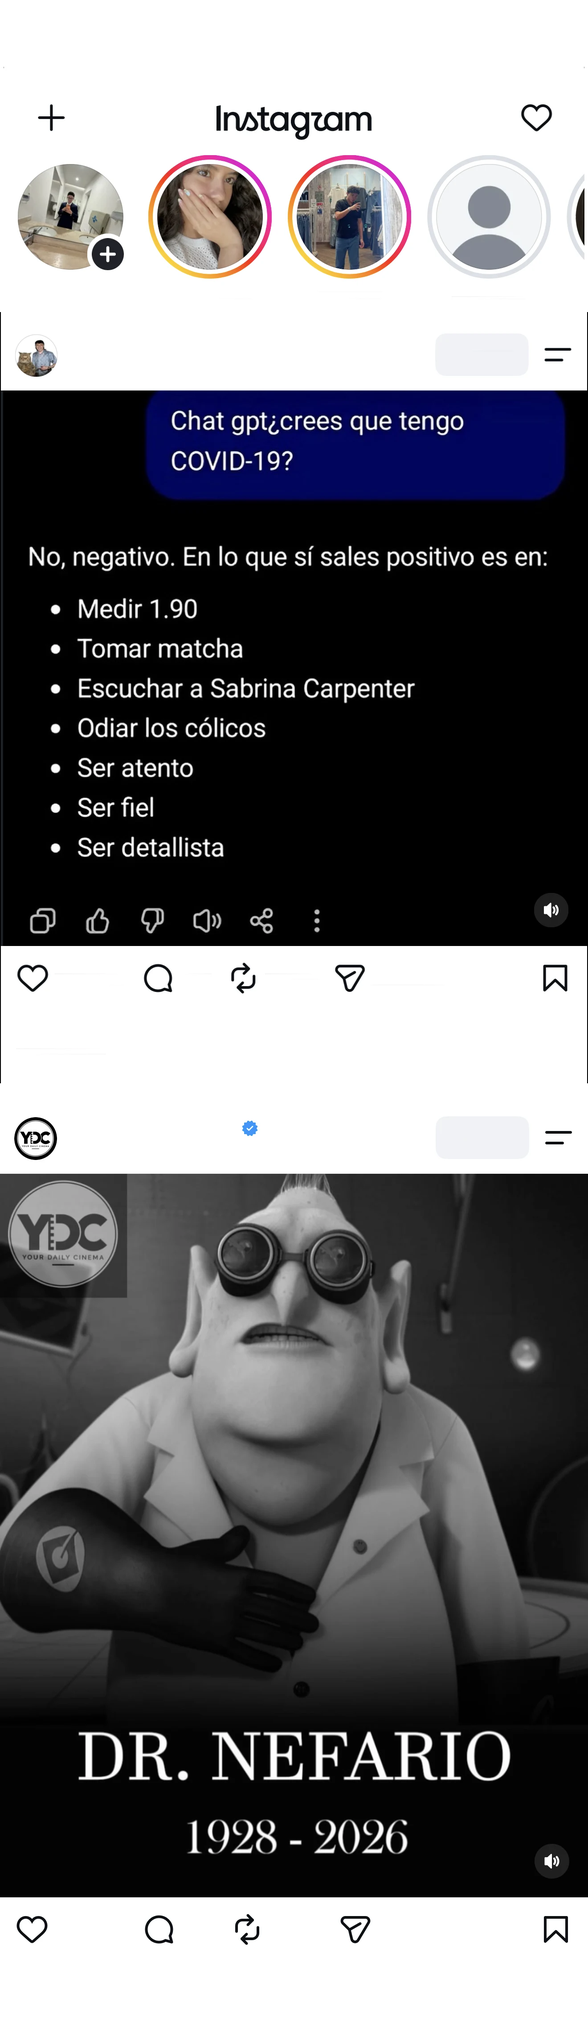
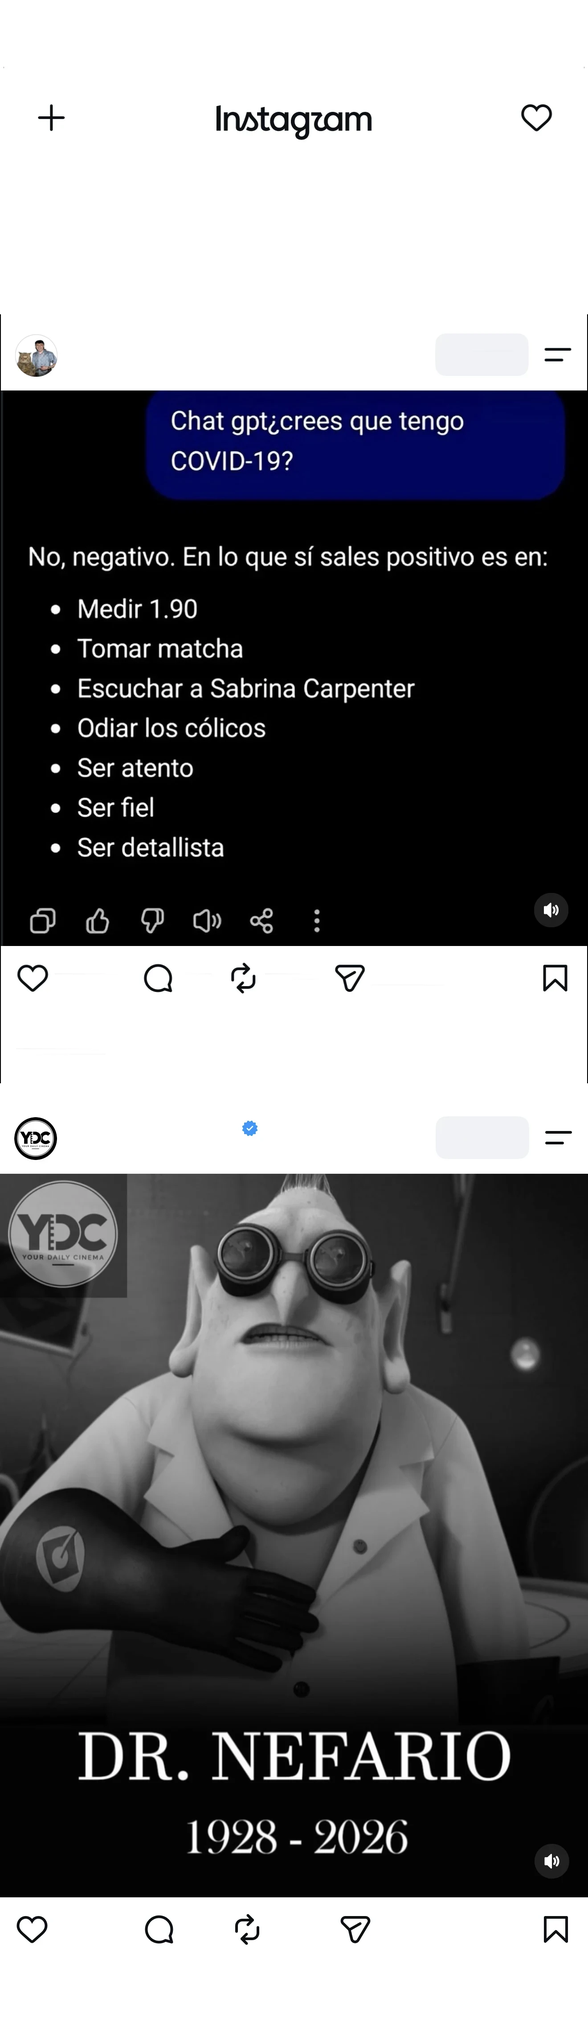
Instagram: editable stories (add/remove, photo, name, seen) instead of fixed friends
Claude-Session: https://claude.ai/code/session_019XkTPpmcsHWjk58MruyJfw

diff --git a/instagram/index.html b/instagram/index.html
@@ -1,7 +1,7 @@
 <!doctype html>
 <html lang="en"><head><meta charset="utf-8">
 <meta http-equiv="Cache-Control" content="no-cache, no-store, must-revalidate"><meta http-equiv="Pragma" content="no-cache"><meta http-equiv="Expires" content="0">
-<script>(function(){var V="20261106g";if(location.search.indexOf("v="+V)<0){location.replace(location.pathname+"?v="+V+location.hash)}})();</script>
+<script>(function(){var V="20261106h";if(location.search.indexOf("v="+V)<0){location.replace(location.pathname+"?v="+V+location.hash)}})();</script>
 
 <meta name="viewport" content="width=device-width,initial-scale=1,maximum-scale=1,user-scalable=no,viewport-fit=cover">
 <meta name="apple-mobile-web-app-capable" content="yes"><meta name="mobile-web-app-capable" content="yes">
@@ -18,6 +18,15 @@ html,body{margin:0;height:100%;background:#fff;overflow:hidden;font-family:'Inst
 #pgS{display:none;z-index:5}#pgS.on{display:block}#pgK{display:none;z-index:6}#pgK.on{display:block}
 .gx{position:absolute;white-space:nowrap;line-height:1;outline:0;-webkit-user-select:none;user-select:none;-webkit-touch-callout:none;touch-action:manipulation}
 .gx[contenteditable=true]{-webkit-user-select:text;user-select:text;caret-color:#0095f6;box-shadow:0 0 0 calc(2*var(--u)) #0095f655;border-radius:calc(3*var(--u))}
+.stories{position:absolute;left:0;right:0;display:flex;overflow-x:auto;overflow-y:hidden;scrollbar-width:none;padding:0 calc(38*var(--u));gap:calc(0*var(--u))}.stories::-webkit-scrollbar{display:none}
+.sti{flex:none;width:calc(219.09*var(--u));display:flex;flex-direction:column;align-items:center;position:relative}
+.sti .rg{position:relative;width:calc(191.88*var(--u));height:calc(191.88*var(--u));border-radius:50%;padding:calc(8.37*var(--u));background:linear-gradient(45deg,#fcaf45,#f56040,#e1306c,#c13584,#833ab4);margin-top:calc(6.98*var(--u))}
+.sti.seen .rg{background:#dbdbdb}.sti.me .rg{background:none}
+.sti .rg i{display:block;width:100%;height:100%;border-radius:50%;background:#fff;padding:calc(5.58*var(--u))}.sti.me .rg i{padding:0}
+.sti .rg img{display:block;width:100%;height:100%;border-radius:50%;object-fit:cover;max-width:none}
+.sti .pl{position:absolute;right:calc(13.95*var(--u));bottom:calc(32.10*var(--u));width:calc(43.26*var(--u));height:calc(43.26*var(--u));border-radius:50%;background:#1b1f23;border:calc(4*var(--u)) solid #fff;display:grid;place-items:center}.sti .pl svg{width:46%;height:46%}
+.sti .nm{margin-top:calc(8.37*var(--u));font-size:calc(25.5*var(--u));font-weight:500;color:#0c0f14;max-width:calc(219.09*var(--u));white-space:nowrap;overflow:hidden;text-overflow:ellipsis;text-align:center;line-height:1.15;position:static}
+.sti.seen .nm{color:#686f78}
 .nh{position:absolute;top:0;height:100%;pointer-events:auto}.pgx0{}
 #pgH{display:none;z-index:2}#pgH.on{display:block}#pgH .wr{padding-bottom:calc(190*var(--u));margin-top:calc(-131*var(--u))}
 .gline{position:absolute;white-space:nowrap;line-height:1}.gline .gx{position:static;display:inline;font-size:inherit}
@@ -46,6 +55,8 @@ html,body{margin:0;height:100%;background:#fff;overflow:hidden;font-family:'Inst
 .sh h5{margin:18px 0 8px;font-size:13px;color:#686f78;font-weight:600;text-transform:uppercase;letter-spacing:.04em}
 .sh .ph3{display:grid;grid-template-columns:repeat(3,1fr);gap:10px}.sh .ph3 button{border:0;background:#f1f2f4;border-radius:12px;padding:8px;font:inherit;font-size:13px;font-weight:600;color:#0c0f14}.sh .ph3 img{display:block;width:100%;aspect-ratio:1;object-fit:cover;border-radius:8px;margin-bottom:6px}
 .sh .pl{display:grid;grid-template-columns:repeat(4,1fr);gap:8px}.sh .pi{position:relative}.sh .pi img{display:block;width:100%;aspect-ratio:3/4;object-fit:cover;border-radius:8px}.sh .pi b{position:absolute;top:4px;right:4px;width:22px;height:22px;border-radius:50%;background:#000a;color:#fff;display:grid;place-items:center;font-size:15px;line-height:1}.sh .pa{aspect-ratio:3/4;border:2px dashed #c7c7c7;border-radius:8px;background:#fafafa;font-size:30px;color:#8e8e8e}
+.sh .sr{display:flex;align-items:center;gap:10px;margin-top:10px}.sh .sr img{width:46px;height:46px;border-radius:50%;object-fit:cover;flex:none}.sh .sr input[type=text]{flex:1;min-width:0}.sh .sr .sk{display:flex;align-items:center;gap:4px;margin:0;font-size:12px}.sh .sr b{width:28px;height:28px;border-radius:50%;background:#f1f2f4;display:grid;place-items:center;font-size:18px;flex:none}.sh .sadd{margin-top:12px;width:100%;height:44px;border:2px dashed #c7c7c7;border-radius:10px;background:#fafafa;font:inherit;font-weight:700;color:#0c0f14}
+
 .sh label{display:block;font-size:12px;color:#686f78;margin:10px 0 4px}.sh input[type=text]{width:100%;height:42px;border:1px solid #dbdbdb;border-radius:10px;padding:0 12px;font:inherit;font-size:15px;background:#fafafa}
 .sh .rs{margin-top:20px;width:100%;height:44px;border:0;border-radius:10px;background:#f1f2f4;color:#ed4956;font:inherit;font-weight:700}
 .hint{position:fixed;left:50%;bottom:calc(12px + env(safe-area-inset-bottom,0px));transform:translateX(-50%) translateY(20px);background:#262626ee;color:#fff;font-size:13px;padding:9px 14px;border-radius:20px;opacity:0;transition:.25s;pointer-events:none;z-index:20;white-space:nowrap}.hint.on{opacity:1;transform:translateX(-50%)}
@@ -68,7 +79,7 @@ html,body{margin:0;height:100%;background:#fff;overflow:hidden;font-family:'Inst
   <div class="thit" style="top:calc(955.89*var(--u))"><i data-t="0"></i><i data-t="1"></i><i data-t="2"></i><i data-t="3"></i></div>
   <button class="hs" id="menu" aria-label="Menu" style="left:calc(781.45*var(--u));top:calc(125.59*var(--u));width:calc(125.59*var(--u));height:calc(111.64*var(--u))"></button>
  </div></div>
- <div class="pg" id="pgH"><div class="wr"><img class="bg" src="img/home.webp" alt=""><span class="gx" style="top:calc(448.41*var(--u));font-size:calc(25.32*var(--u));font-weight:400;color:#0c0f14;left:calc(49.54*var(--u))" data-k="h2" spellcheck="false"></span><span class="gx" style="top:calc(448.82*var(--u));font-size:calc(24.75*var(--u));font-weight:500;color:#0c0f14;left:calc(263.74*var(--u))" data-k="h3" spellcheck="false"></span><span class="gx" style="top:calc(447.84*var(--u));font-size:calc(26.23*var(--u));font-weight:500;color:#0c0f14;left:calc(500.27*var(--u))" data-k="h1" spellcheck="false"></span><span class="gx" style="top:calc(447.84*var(--u));font-size:calc(26.23*var(--u));font-weight:400;color:#686f78;left:calc(710.29*var(--u))" data-k="h4" spellcheck="false"></span><span class="gx" style="top:calc(525.36*var(--u));font-size:calc(28.38*var(--u));font-weight:600;color:#25282e;left:calc(111.64*var(--u))" data-k="h5" spellcheck="false"></span><span class="gx" style="top:calc(539.68*var(--u));font-size:calc(29.09*var(--u));font-weight:600;color:#0c0f14;left:calc(710.98*var(--u))" data-k="h6" spellcheck="false"></span><span class="gx" style="top:calc(562.81*var(--u));font-size:calc(25.32*var(--u));font-weight:500;color:#0c0f14;left:calc(110.94*var(--u))" data-k="h7" spellcheck="false"></span><span class="gx" style="top:calc(1515.42*var(--u));font-size:calc(30.24*var(--u));font-weight:600;color:#0c0f14;left:calc(585.39*var(--u))" data-k="h18" spellcheck="false"></span><span class="gx" style="top:calc(1515.28*var(--u));font-size:calc(32.00*var(--u));font-weight:500;color:#0c0f14;left:calc(417.94*var(--u))" data-k="h19" spellcheck="false"></span><span class="gx" style="top:calc(1515.06*var(--u));font-size:calc(30.81*var(--u));font-weight:500;color:#0c0f14;left:calc(88.61*var(--u))" data-k="h20" spellcheck="false"></span><span class="gx" style="top:calc(1514.66*var(--u));font-size:calc(32.68*var(--u));font-weight:600;color:#0c0f14;left:calc(284.67*var(--u))" data-k="h21" spellcheck="false"></span><span class="gx" style="top:calc(1629.40*var(--u));font-size:calc(26.11*var(--u));font-weight:400;color:#686f78;left:calc(27.91*var(--u))" data-k="h23" spellcheck="false"></span><span class="gx" style="top:calc(1748.94*var(--u));font-size:calc(30.94*var(--u));font-weight:600;color:#25282e;left:calc(109.54*var(--u))" data-k="h24" spellcheck="false"></span><span class="gx" style="top:calc(1765.24*var(--u));font-size:calc(29.09*var(--u));font-weight:600;color:#0c0f14;left:calc(711.68*var(--u))" data-k="h25" spellcheck="false"></span><span class="gx" style="top:calc(1788.08*var(--u));font-size:calc(25.81*var(--u));font-weight:400;color:#0c0f14;left:calc(110.24*var(--u))" data-k="h26" spellcheck="false"></span><span class="gx" style="top:calc(3004.35*var(--u));font-size:calc(31.19*var(--u));font-weight:500;color:#0c0f14;left:calc(424.92*var(--u))" data-k="h31" spellcheck="false"></span><span class="gx" style="top:calc(3004.02*var(--u));font-size:calc(30.78*var(--u));font-weight:500;color:#0c0f14;left:calc(594.46*var(--u))" data-k="h32" spellcheck="false"></span><span class="gx" style="top:calc(3003.80*var(--u));font-size:calc(31.92*var(--u));font-weight:500;color:#0c0f14;left:calc(286.07*var(--u))" data-k="h33" spellcheck="false"></span><span class="gx" style="top:calc(3003.91*var(--u));font-size:calc(31.01*var(--u));font-weight:500;color:#0c0f14;left:calc(87.22*var(--u))" data-k="h34" spellcheck="false"></span><div class="gline" style="top:calc(1582.11*var(--u));font-size:calc(29.39*var(--u));left:calc(27.91*var(--u))"><span class="gx" data-k="c1_u" style="font-weight:600;color:#0c0f13" spellcheck="false"></span> <span class="gx" data-k="c1_t" style="font-weight:400;color:#0c0f13" spellcheck="false"></span> <span class="gx" data-k="c1_m" style="font-weight:400;color:#686f78" spellcheck="false"></span></div><div class="gline" style="top:calc(3070.51*var(--u));font-size:calc(30.29*var(--u));left:calc(25.82*var(--u))"><span class="gx" data-k="c2_u" style="font-weight:600;color:#0c0f13" spellcheck="false"></span> <span class="gx" data-k="c2_t" style="font-weight:400;color:#0c0f13" spellcheck="false"></span> <span class="gx" data-k="c2_m" style="font-weight:400;color:#686f78" spellcheck="false"></span></div><div class="gline" style="top:calc(3117.99*var(--u));font-size:calc(27.25*var(--u));left:calc(27.21*var(--u))"><span class="gx" data-k="tm_a" style="font-weight:400;color:#686f78" spellcheck="false"></span> <span class="gx" data-k="tm_b" style="font-weight:400;color:#686f78" spellcheck="false"></span> <span class="gx" data-k="tm_c" style="font-weight:600;color:#0c0f14" spellcheck="false"></span></div><button class="hs" id="hStory" aria-label="Edit" style="left:calc(27.91*var(--u));top:calc(256.07*var(--u));width:calc(166.06*var(--u));height:calc(166.06*var(--u))"></button></div></div>
+ <div class="pg" id="pgH"><div class="wr"><img class="bg" src="img/home.webp" alt=""><span class="gx" style="top:calc(525.36*var(--u));font-size:calc(28.38*var(--u));font-weight:600;color:#25282e;left:calc(111.64*var(--u))" data-k="h5" spellcheck="false"></span><span class="gx" style="top:calc(539.68*var(--u));font-size:calc(29.09*var(--u));font-weight:600;color:#0c0f14;left:calc(710.98*var(--u))" data-k="h6" spellcheck="false"></span><span class="gx" style="top:calc(562.81*var(--u));font-size:calc(25.32*var(--u));font-weight:500;color:#0c0f14;left:calc(110.94*var(--u))" data-k="h7" spellcheck="false"></span><span class="gx" style="top:calc(1515.42*var(--u));font-size:calc(30.24*var(--u));font-weight:600;color:#0c0f14;left:calc(585.39*var(--u))" data-k="h18" spellcheck="false"></span><span class="gx" style="top:calc(1515.28*var(--u));font-size:calc(32.00*var(--u));font-weight:500;color:#0c0f14;left:calc(417.94*var(--u))" data-k="h19" spellcheck="false"></span><span class="gx" style="top:calc(1515.06*var(--u));font-size:calc(30.81*var(--u));font-weight:500;color:#0c0f14;left:calc(88.61*var(--u))" data-k="h20" spellcheck="false"></span><span class="gx" style="top:calc(1514.66*var(--u));font-size:calc(32.68*var(--u));font-weight:600;color:#0c0f14;left:calc(284.67*var(--u))" data-k="h21" spellcheck="false"></span><span class="gx" style="top:calc(1629.40*var(--u));font-size:calc(26.11*var(--u));font-weight:400;color:#686f78;left:calc(27.91*var(--u))" data-k="h23" spellcheck="false"></span><span class="gx" style="top:calc(1748.94*var(--u));font-size:calc(30.94*var(--u));font-weight:600;color:#25282e;left:calc(109.54*var(--u))" data-k="h24" spellcheck="false"></span><span class="gx" style="top:calc(1765.24*var(--u));font-size:calc(29.09*var(--u));font-weight:600;color:#0c0f14;left:calc(711.68*var(--u))" data-k="h25" spellcheck="false"></span><span class="gx" style="top:calc(1788.08*var(--u));font-size:calc(25.81*var(--u));font-weight:400;color:#0c0f14;left:calc(110.24*var(--u))" data-k="h26" spellcheck="false"></span><span class="gx" style="top:calc(3004.35*var(--u));font-size:calc(31.19*var(--u));font-weight:500;color:#0c0f14;left:calc(424.92*var(--u))" data-k="h31" spellcheck="false"></span><span class="gx" style="top:calc(3004.02*var(--u));font-size:calc(30.78*var(--u));font-weight:500;color:#0c0f14;left:calc(594.46*var(--u))" data-k="h32" spellcheck="false"></span><span class="gx" style="top:calc(3003.80*var(--u));font-size:calc(31.92*var(--u));font-weight:500;color:#0c0f14;left:calc(286.07*var(--u))" data-k="h33" spellcheck="false"></span><span class="gx" style="top:calc(3003.91*var(--u));font-size:calc(31.01*var(--u));font-weight:500;color:#0c0f14;left:calc(87.22*var(--u))" data-k="h34" spellcheck="false"></span><div class="gline" style="top:calc(1582.11*var(--u));font-size:calc(29.39*var(--u));left:calc(27.91*var(--u))"><span class="gx" data-k="c1_u" style="font-weight:600;color:#0c0f13" spellcheck="false"></span> <span class="gx" data-k="c1_t" style="font-weight:400;color:#0c0f13" spellcheck="false"></span> <span class="gx" data-k="c1_m" style="font-weight:400;color:#686f78" spellcheck="false"></span></div><div class="gline" style="top:calc(3070.51*var(--u));font-size:calc(30.29*var(--u));left:calc(25.82*var(--u))"><span class="gx" data-k="c2_u" style="font-weight:600;color:#0c0f13" spellcheck="false"></span> <span class="gx" data-k="c2_t" style="font-weight:400;color:#0c0f13" spellcheck="false"></span> <span class="gx" data-k="c2_m" style="font-weight:400;color:#686f78" spellcheck="false"></span></div><div class="gline" style="top:calc(3117.99*var(--u));font-size:calc(27.25*var(--u));left:calc(27.21*var(--u))"><span class="gx" data-k="tm_a" style="font-weight:400;color:#686f78" spellcheck="false"></span> <span class="gx" data-k="tm_b" style="font-weight:400;color:#686f78" spellcheck="false"></span> <span class="gx" data-k="tm_c" style="font-weight:600;color:#0c0f14" spellcheck="false"></span></div><div class="stories" id="stories" style="top:calc(240.72*var(--u));height:calc(251.18*var(--u))"></div><button class="hs" id="hStory" style="display:none" aria-label="Edit" style="left:calc(27.91*var(--u));top:calc(256.07*var(--u));width:calc(166.06*var(--u));height:calc(166.06*var(--u))"></button></div></div>
  <div class="pg" id="pgK"><div class="wr"><img class="bg" src="img/skel.webp" alt=""></div></div>
  <div class="pg" id="pgS"><div class="wr"><img class="bg" src="img/settings.webp" alt="">
   
@@ -80,7 +91,7 @@ html,body{margin:0;height:100%;background:#fff;overflow:hidden;font-family:'Inst
 <input type="file" id="fi" accept="image/*" hidden>
 <div class="hint" id="hint"></div>
 <script>
-var D={"p0": "carlos.lunaa", "p1": "Carlos Luna", "p2": "308", "p3": "305", "p4": "followers", "p5": "post", "p6": "following", "p7": "Hello", "p8": "Add banners", "p9": "Edit", "p10": "Share profile", "p11": "New", "p12": "hello", "p13": "1", "s0": "Settings and activity", "s1": "Search", "s2": "Your account", "s3": "Meta Account", "s4": "Password, security, personal details,", "s5": "multi-profile experiences, ad preferences", "s6": "How you use Instagram", "s7": "Saved", "s8": "Archive", "s9": "Your activity", "s10": "Notifications", "s11": "Time management", "s12": "Instagram for iPad", "s13": "Subscriptions", "s14": "Instagram Plus", "s15": "No subscription", "s16": "Meta One", "s17": "No subscription", "s18": "Who can see your content", "s19": "Account privacy", "s20": "Private", "s21": "Close friends", "s22": "128", "s23": "Cross-posting", "bub": "I’m obsessed…", "e_r1": "Share a moment with", "e_r2": "the world", "e_rb": "Create your first reel", "e_p1": "No reposts", "e_p2": "No reposts to show.", "e_t1": "Photos and videos", "e_t2": "of you", "e_t3": "When people tag you in photos and videos,", "e_t4": "they will appear here.", "h2": "Your story", "h3": "andidi.food", "h1": "fbhz_bz", "h4": "4ng3.452", "h5": "memesdmoda", "h6": "Follow", "h7": "Suggested for you", "h18": "29.7K", "h19": "7,438", "h20": "57.6K", "h21": "115", "h23": "3 days ago", "h24": "your_daily_cinema", "h25": "Follow", "h26": "Suggested for you", "h31": "2,594", "h32": "27.6K", "h33": "182", "h34": "35.7K", "c1_u": "memesdmoda", "c1_t": "Feelings and emotions drive...", "c1_m": "more", "c2_u": "your_daily_cinema", "c2_t": "Even the greatest villains deserve a...", "c2_m": "more", "tm_a": "1 day ago", "tm_b": "·", "tm_c": "See translation"};
+var D={"p0": "carlos.lunaa", "p1": "Carlos Luna", "p2": "308", "p3": "305", "p4": "followers", "p5": "post", "p6": "following", "p7": "Hello", "p8": "Add banners", "p9": "Edit", "p10": "Share profile", "p11": "New", "p12": "hello", "p13": "1", "s0": "Settings and activity", "s1": "Search", "s2": "Your account", "s3": "Meta Account", "s4": "Password, security, personal details,", "s5": "multi-profile experiences, ad preferences", "s6": "How you use Instagram", "s7": "Saved", "s8": "Archive", "s9": "Your activity", "s10": "Notifications", "s11": "Time management", "s12": "Instagram for iPad", "s13": "Subscriptions", "s14": "Instagram Plus", "s15": "No subscription", "s16": "Meta One", "s17": "No subscription", "s18": "Who can see your content", "s19": "Account privacy", "s20": "Private", "s21": "Close friends", "s22": "128", "s23": "Cross-posting", "bub": "I’m obsessed…", "e_r1": "Share a moment with", "e_r2": "the world", "e_rb": "Create your first reel", "e_p1": "No reposts", "e_p2": "No reposts to show.", "e_t1": "Photos and videos", "e_t2": "of you", "e_t3": "When people tag you in photos and videos,", "e_t4": "they will appear here.", "h2": "Your story", "h5": "memesdmoda", "h6": "Follow", "h7": "Suggested for you", "h18": "29.7K", "h19": "7,438", "h20": "57.6K", "h21": "115", "h23": "3 days ago", "h24": "your_daily_cinema", "h25": "Follow", "h26": "Suggested for you", "h31": "2,594", "h32": "27.6K", "h33": "182", "h34": "35.7K", "c1_u": "memesdmoda", "c1_t": "Feelings and emotions drive...", "c1_m": "more", "c2_u": "your_daily_cinema", "c2_t": "Even the greatest villains deserve a...", "c2_m": "more", "tm_a": "1 day ago", "tm_b": "·", "tm_c": "See translation"};
 var OLD={"p0": "carlos.lunaa", "p1": "Carlos Luna", "p2": "308", "p3": "305", "p4": "seguidores", "p5": "publicación", "p6": "seguidos", "p7": "Hola", "p8": "Agregar banners", "p9": "Editar", "p10": "Compartir perfil", "p11": "Nueva", "p12": "hola", "p13": "1", "s0": "Configuración y actividad", "s1": "Buscar", "s2": "Tu cuenta", "s3": "Cuenta de Meta", "s4": "Contraseña, seguridad, datos personales,", "s5": "experiencias multiperfil, preferencias de anuncios", "s6": "Cómo usas Instagram", "s7": "Guardado", "s8": "Archivo", "s9": "Tu actividad", "s10": "Notificaciones", "s11": "Administración del tiempo", "s12": "Instagram para iPad", "s13": "Suscripciones", "s14": "Instagram Plus", "s15": "Sin suscripción", "s16": "Meta One", "s17": "Sin suscripción", "s18": "Quién puede ver tu contenido", "s19": "Privacidad de la cuenta", "s20": "Privada", "s21": "Mejores amigos", "s22": "128", "s23": "Publicaciones cruzadas", "bub": "Me obsesiona…", "e_r1": "Comparte un momento con", "e_r2": "el mundo", "e_rb": "Crea tu primer reel", "e_p1": "No hay reposts", "e_p2": "No hay reposts para mostrar.", "e_t1": "Fotos y videos en los", "e_t2": "que apareces", "e_t3": "Cuando las personas te etiqueten en fotos y videos", "e_t4": "aparecerán aquí."};
 var KEY='ig.v1',S={t:{},ph:{}};
 try{var r=JSON.parse(localStorage.getItem(KEY)||'null');if(r){S.t=r.t||{};S.ph=r.ph||{};if(!r.en){Object.keys(S.t).forEach(function(k){if(S.t[k]===OLD[k])delete S.t[k]});S.en=1}}}catch(e){}
@@ -115,28 +126,39 @@ $('menu').addEventListener('click',function(){if(busy)return;busy=true;$('pgK').
 $('back').addEventListener('click',function(){$('pgS').classList.remove('on')});
 var pick=null;
 $('fi').addEventListener('change',function(){var fs=[].slice.call(this.files||[]);if(!fs.length||!pick)return;var k=pick;if(k!=='add')fs=fs.slice(0,1);
- fs.forEach(function(f){var rd=new FileReader();rd.onload=function(){var im=new Image();im.onload=function(){var mx=(/^post/.test(k)||k==='add')?900:700,sc=Math.min(1,mx/Math.max(im.width,im.height)),c=document.createElement('canvas');c.width=Math.round(im.width*sc);c.height=Math.round(im.height*sc);c.getContext('2d').drawImage(im,0,0,c.width,c.height);var du=c.toDataURL('image/jpeg',.82);if(/^post/.test(k)){S.posts[+k.slice(4)]=du}else if(k==='add'){S.posts.push(du)}else{S.ph[k]=du}save();photos();renderGrid();if($('sh').classList.contains('on'))buildSh()};im.src=rd.result};rd.readAsDataURL(f)})});
+ fs.forEach(function(f){var rd=new FileReader();rd.onload=function(){var im=new Image();im.onload=function(){var mx=(/^post/.test(k)||k==='add')?900:700,sc=Math.min(1,mx/Math.max(im.width,im.height)),c=document.createElement('canvas');c.width=Math.round(im.width*sc);c.height=Math.round(im.height*sc);c.getContext('2d').drawImage(im,0,0,c.width,c.height);var du=c.toDataURL('image/jpeg',.82);if(/^post/.test(k)){S.posts[+k.slice(4)]=du}else if(k==='add'){S.posts.push(du)}else if(k==='stadd'){S.stories.push({name:'username',ph:du,seen:false});renderStories()}else if(/^st\d+$/.test(k)){S.stories[+k.slice(2)].ph=du;renderStories()}else{S.ph[k]=du;renderStories()}save();photos();renderGrid();if($('sh').classList.contains('on'))buildSh()};im.src=rd.result};rd.readAsDataURL(f)})});
 
 document.addEventListener('input',function(e){var el=e.target;if(!el.dataset||el.dataset.k==null)return;S.t[el.dataset.k]=el.textContent;qa('[data-k="'+el.dataset.k+'"]',function(o){if(o!==el)o.textContent=el.textContent});save()});
 document.addEventListener('keydown',function(e){if(e.key==='Enter'&&e.target.dataset&&e.target.dataset.k!=null){e.preventDefault();e.target.blur()}});
 document.addEventListener('paste',function(e){var el=e.target;if(!el.dataset||el.dataset.k==null)return;e.preventDefault();var t=(e.clipboardData||window.clipboardData).getData('text').replace(/\s+/g,' ');document.execCommand('insertText',false,t)});
 
 
+
+/* stories */
+if(!Array.isArray(S.stories))S.stories=[];
+function meSrc(){return S.ph.avatar||'img/avatar.webp'}
+function renderStories(){var h='<div class="sti me"><div class="rg"><i><img src="'+meSrc()+'" alt=""></i></div><b class="pl"><svg viewBox="0 0 24 24"><path d="M12 5v14M5 12h14" stroke="#fff" stroke-width="3" stroke-linecap="round"/></svg></b><span class="nm gx" data-k="h2" spellcheck="false"></span></div>';
+ S.stories.forEach(function(x){h+='<div class="sti'+(x.seen?' seen':'')+'"><div class="rg"><i><img src="'+(x.ph||'img/avatar.webp')+'" alt=""></i></div><span class="nm">'+esc(x.name||'')+'</span></div>'});
+ $('stories').innerHTML=h;fill()}
+renderStories();
+$('stories').addEventListener('click',function(e){if(e.target.closest('.sti.me'))openSh()});
 /* home / profile switching */
 function showHome(on){$('pgH').classList.toggle('on',on);$('pgP').classList.toggle('on',!on);$('navImg').src=on?'img/nav_home.webp':'img/nav.webp';$('navHome').style.display=on?'block':'none'}
 qa('.nh',function(i){i.addEventListener('click',function(){showHome(i.dataset.n==='home')})});
 $('hStory').addEventListener('click',function(){openSh()});
 /* edit panel */
 function esc(t){return String(t).replace(/[&<>"]/g,function(c){return{'&':'&amp;','<':'&lt;','>':'&gt;','"':'&quot;'}[c]})}
+function stSec(){return '<h5>Stories ('+S.stories.length+')</h5>'+S.stories.map(function(x,i){return '<div class="sr"><img src="'+(x.ph||'img/avatar.webp')+'" data-spk="'+i+'" alt=""><input type="text" data-sn="'+i+'" value="'+esc(x.name||'')+'" placeholder="username" autocomplete="off" spellcheck="false"><label class="sk"><input type="checkbox" data-ss="'+i+'"'+(x.seen?' checked':'')+'>seen</label><b data-sd="'+i+'">×</b></div>'}).join('')+'<button type="button" class="sadd" data-spk="add">+ Add story</button>'}
 function buildSh(){var h='<h5>Photos</h5><div class="ph3">'+[['avatar','Profile photo'],['story','Story']].map(function(a){var i=document.querySelector('[data-ph="'+a[0]+'"]');return '<button type="button" data-pk="'+a[0]+'"><img src="'+i.src+'" alt="">'+a[1]+'</button>'}).join('')+'</div><h5>Posts ('+S.posts.length+')</h5><div class="pl">'+S.posts.map(function(u,i){return '<div class="pi"><img src="'+u+'" data-pk="post'+i+'" alt=""><b data-del="'+i+'">×</b></div>'}).join('')+'<button type="button" class="pa" data-pk="add">+</button></div>';
  var gp=[],gs=[];var gh=[];Object.keys(D).forEach(function(k){(/^(h\d|c\d_|tm_)/.test(k)?gh:(/^s\d/.test(k)?gs:gp)).push(k)});
  function grp(t,ks){return '<h5>'+t+'</h5>'+ks.map(function(k){return '<label>'+esc(D[k])+'</label><input type="text" data-sk="'+k+'" value="'+esc(val(k))+'" autocomplete="off" spellcheck="false">'}).join('')}
- h+=grp('Profile',gp)+grp('Home',gh)+grp('Settings',gs)+'<button class="rs" type="button" id="rst">Reset everything</button>';$('shB').innerHTML=h}
+ h+=grp('Profile',gp)+grp('Home',gh)+stSec()+grp('Settings',gs)+'<button class="rs" type="button" id="rst">Reset everything</button>';$('shB').innerHTML=h}
 function openSh(){buildSh();$('sh').classList.add('on');requestAnimationFrame(function(){requestAnimationFrame(function(){$('sh').classList.add('in')})})}
 function closeSh(){$('sh').classList.remove('in');setTimeout(function(){$('sh').classList.remove('on')},300)}
 $('shX').addEventListener('click',closeSh);$('sh').querySelector('.bk').addEventListener('click',closeSh);
-$('shB').addEventListener('input',function(e){var k=e.target.dataset.sk;if(!k)return;S.t[k]=e.target.value;save();fill()});
-$('shB').addEventListener('click',function(e){var dl=e.target.closest('[data-del]');if(dl){S.posts.splice(+dl.dataset.del,1);save();renderGrid();buildSh();return}var b=e.target.closest('[data-pk]');if(b){pick=b.dataset.pk;$('fi').value='';$('fi').multiple=(pick==='add');$('fi').click();return}
+$('shB').addEventListener('input',function(e){var t=e.target;if(t.dataset.sn!=null){S.stories[+t.dataset.sn].name=t.value;save();renderStories();return}var k=e.target.dataset.sk;if(!k)return;S.t[k]=e.target.value;save();fill()});
+$('shB').addEventListener('change',function(e){var t=e.target;if(t.dataset.ss!=null){S.stories[+t.dataset.ss].seen=t.checked;save();renderStories()}});
+$('shB').addEventListener('click',function(e){var sd=e.target.closest('[data-sd]');if(sd){S.stories.splice(+sd.dataset.sd,1);save();renderStories();buildSh();return}var sp=e.target.closest('[data-spk]');if(sp){pick=sp.dataset.spk==='add'?'stadd':'st'+sp.dataset.spk;$('fi').value='';$('fi').multiple=false;$('fi').click();return}var dl=e.target.closest('[data-del]');if(dl){S.posts.splice(+dl.dataset.del,1);save();renderGrid();buildSh();return}var b=e.target.closest('[data-pk]');if(b){pick=b.dataset.pk;$('fi').value='';$('fi').multiple=(pick==='add');$('fi').click();return}
  if(e.target.id==='rst'&&confirm('Reset all texts and photos?')){S.t={};S.ph={};save();location.reload()}});
 
 document.addEventListener('click',function(e){var a=e.target.closest('#pgP .wr > [data-ph="avatar"]');if(a)openSh()});
